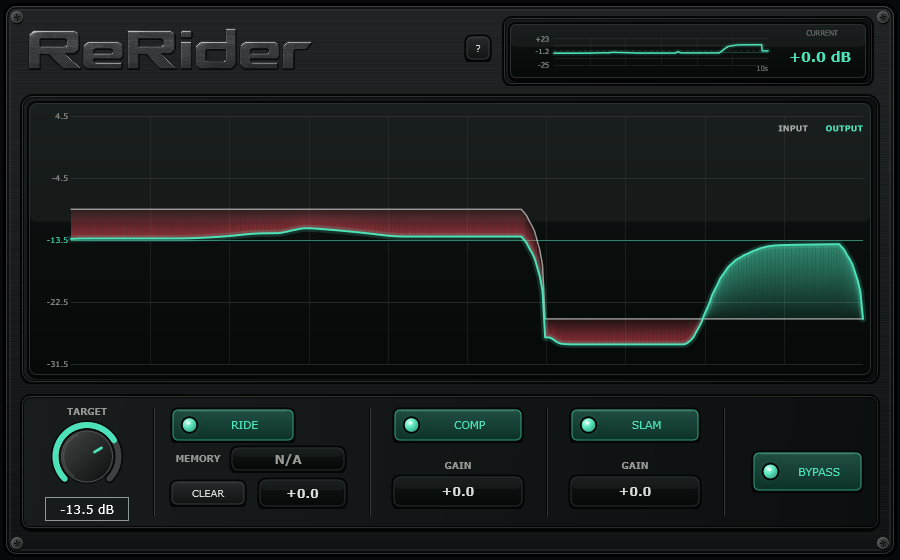
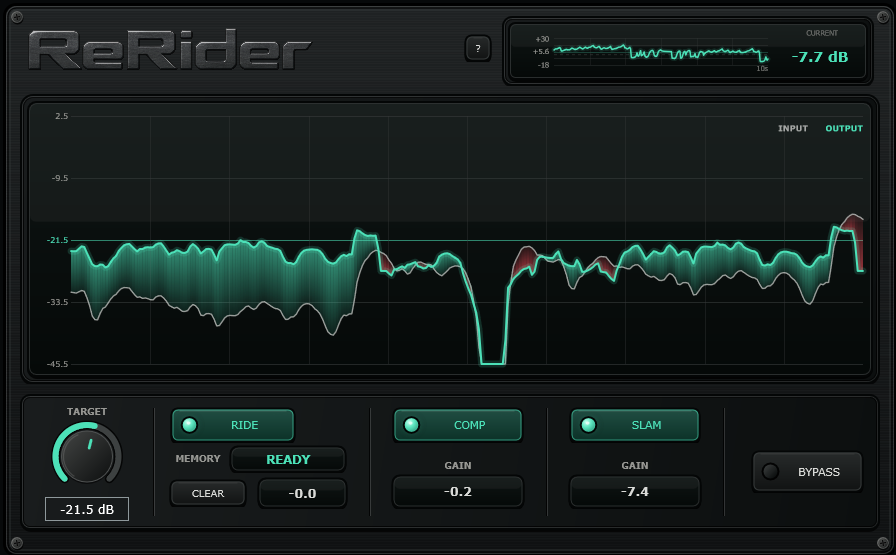
Use final ReRider product screenshot

diff --git a/index.html b/index.html
@@ -70,7 +70,7 @@
           </div>
           <div class="directory-shot">
             <div class="screenshot-frame">
-              <img src="assets/rerider-ui.png?v=1.0" width="900" height="560" alt="ReRider plug-in interface">
+              <img src="assets/rerider-ui.png?v=1.0" width="896" height="555" alt="ReRider plug-in interface">
             </div>
           </div>
         </a>
